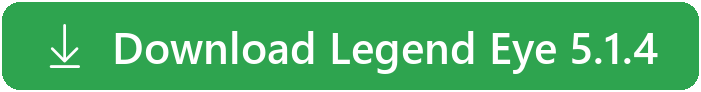
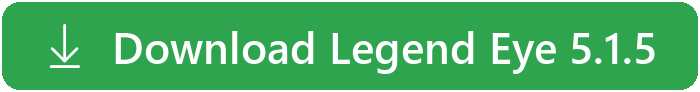
README: 5.1.5 notes, download button, VirusTotal

diff --git a/README.md b/README.md
@@ -15,6 +15,28 @@ https://github.com/user-attachments/assets/6669fe4a-ca21-4385-8b5a-49e3ea01fefb
 
 Eye tracking, face tracking and dynamic foveated rendering for the **Bigscreen Beyond 2e**. Free to use.
 
+## What's new in 5.1.5
+
+#### Fixes
+- VIVE Facial Tracker: face tracking could stop after a settings change, and stay stopped. LegendEye now pauses before it reopens the tracker, waits longer while the tracker is busy, and tries again if it does not answer.
+- When a face camera is open but sends no picture for 3 seconds, LegendEye reopens it by itself. Before, face tracking stayed stopped until you restarted it.
+- Changing a setting on the Face tab restarts tracking once. Before, some changes restarted it twice in a row.
+- Vive (default) and Babble (default): blank camera frames are skipped. Before, one blank frame could mute the mouth for half a second.
+- Export logs: the face camera lines also show unusable frames and camera reopens.
+
+## ⬇ Download
+
+<a href="https://github.com/Encapsulation/LegendEye/releases/latest/download/LegendEye.exe"><img src="docs/download-button.png" alt="Download Legend Eye 5.1.5" width="350"></a>
+
+One file: no installer, nothing to unpack. To update, replace the exe; your settings and calibrations are kept. [All releases](https://github.com/Encapsulation/LegendEye/releases)
+
+**VirusTotal (5.1.5):** [1 of 70 security vendors flagged it](https://www.virustotal.com/gui/file/44a118794f8e228007639ed1190985b8f6148eff3cbb0a4ab5661877ccc83116)  
[1 lines of base64/hex data omitted]
+
+The single hit is Trapmine "Suspicious.low.ml.score": a machine-learning guess, not a malware signature. It is triggered by how LegendEye ships: one self-contained EXE with its models and runtime packed inside, which looks unusual to generic scanners. Microsoft Defender and every major antivirus report it clean.
+
+Windows may show "Windows protected your PC" the first time, because the app isn't code-signed yet. Click **More info**, then **Run anyway**.
+
 ## What's new in 5.1.4
 
 **Full face tracking support for VIVE and Babble trackers.**
@@ -37,19 +59,6 @@ For a VIVE Facial Tracker on its own, use VIVE model.
 - VIVE model: the mouth opens fully when you talk. Part of the jaw value from the tracker was left out.
 - VIVE runtime source finds the VIVE runtime's files. Before, it missed them on most setups.
 - Face tab: no red "no face camera" flash when switching the face source, and long status text no longer stretches the badges.
-
-## ⬇ Download
-
-<a href="https://github.com/Encapsulation/LegendEye/releases/latest/download/LegendEye.exe"><img src="docs/download-button.png" alt="Download Legend Eye 5.1.4" width="350"></a>
-
-One file: no installer, nothing to unpack. To update, replace the exe; your settings and calibrations are kept. [All releases](https://github.com/Encapsulation/LegendEye/releases)
-
-**VirusTotal (5.1.4):** [1 of 67 security vendors flagged it](https://www.virustotal.com/gui/file/0b646ee7d9357b5f1878338d546902a22bb7986cd496b0590364eabb5d43fa11)  
[1 lines of base64/hex data omitted]
-
-The single hit is Trapmine "Suspicious.low.ml.score": a machine-learning guess, not a malware signature. It is triggered by how LegendEye ships: one self-contained EXE with its models and runtime packed inside, which looks unusual to generic scanners. Microsoft Defender and every major antivirus report it clean.
-
-Windows may show "Windows protected your PC" the first time, because the app isn't code-signed yet. Click **More info**, then **Run anyway**.
 
 ## What's new in 5.1.3
 
